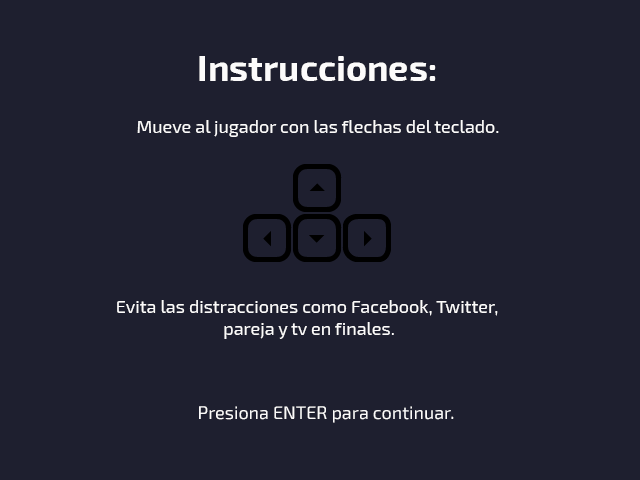
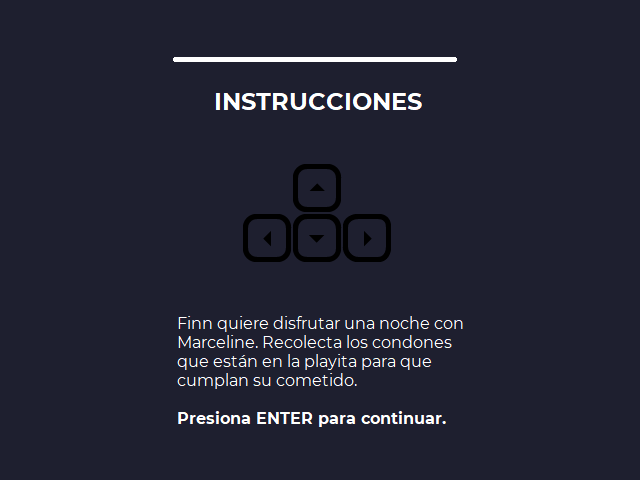
FInish?

Changed region(s): [[0.1875, 0.625, 0.7812, 0.8125], [0.2188, 0.0938, 0.7812, 0.2812], [0.2812, 0.8438, 0.7188, 0.9062]]

diff --git a/states/game.js b/states/game.js
@@ -1,9 +1,8 @@
 /* Se crea una nueva instancia de juego llamada estudianteEnFinales. */
 /* Esta es llamada en el manager */
 
-/* Se añade una variable que cuente el total de diplomas que lleva el usuario*/
-var total_diplomas = 0;
-
+/* Se añade una variable que cuente el total de condones que lleva el usuario*/
+var total_condones = 0;
 /* Se siguieron diferentes tutoriales encontrados en la pagina de Phaser */
 
 /* Esta función recibe como parametro "game" -definido en el 
@@ -20,12 +19,12 @@ var estudianteEnFinales = function (game) {
     this.pareja = null;
     this.tv = null;
 
-    /* Se crean los objetos estaticos diplomas */
-    this.diploma1  = null;
-    this.diploma2  = null;
-    this.diploma3  = null;
-    this.diploma4  = null;
-    this.diploma5  = null;
+    /* Se crean los objetos estaticos condones */
+    this.condon1  = null;
+    this.condon2  = null;
+    this.condon3  = null;
+    this.condon4  = null;
+    this.condon5  = null;
     /* */
     //this.safetile = 1;
     /* Se usara para calcular movimientos */
@@ -79,12 +78,12 @@ estudianteEnFinales.prototype = {
         this.load.image('tiles', 'images/map/default_tiles_x.png');
         /* Importa la imagen del jugador */
         this.load.image('jugador', 'images/map/car90.png');
-        /* Importa la imagen del diploma*/
-        this.load.image('diploma', 'images/map/diploma.png');
+        /* Importa la imagen del condon*/
+        this.load.image('condon', 'images/map/condon.png');
         /* Importa el logo de la UN */
         this.load.image('un', 'images/map/un.png');
         /* Importa el enemigo */
-        this.load.image('enemigo', 'images/map/fb.png');
+        this.load.image('enemigo', 'images/map/virus.png');
         /* Importa el otro enemigo */
         this.load.image('twitter', 'images/map/tw.png');
         /* Y mas...*/
@@ -127,16 +126,21 @@ estudianteEnFinales.prototype = {
         this.physics.arcade.enable(this.twitter);
         this.physics.arcade.enable(this.pareja);
         this.physics.arcade.enable(this.tv);
-        /* Se añaden los diplomas en el mapa */
+        /* Se añaden los condones en el mapa */
         /*Como cada recuadro en el mapa mide 32 e inicia desde cero, así
             se calculo para añadir a la posición: x*cantidad de casillas, y*cantidad de casillas*/
-        this.diploma1 = game.add.sprite(160,32, 'diploma');
-        this.diploma2 = game.add.sprite(384,64, 'diploma');
-        this.diploma3 = game.add.sprite(128,288, 'diploma');
-        this.diploma4 = game.add.sprite(512,288, 'diploma');
-        this.diploma5 = game.add.sprite(256,384, 'diploma');
+        this.condon1 = game.add.sprite(160,32, 'condon');
+        this.condon2 = game.add.sprite(384,64, 'condon');
+        this.condon3 = game.add.sprite(128,288, 'condon');
+        this.condon4 = game.add.sprite(512,288, 'condon');
+        this.condon5 = game.add.sprite(256,384, 'condon');
         /* El movimiento del jugador es manejado por el usuario.
         Se le indica a game que se hará a través del teclado*/
+        puntaje = game.add.text(2, 2, "Puntaje: 0" , { font: "24px Montserrat"} );
+        puntaje.addColor("#f6a5a3", 0);
+        puntaje.stroke = '#1a1c1e';
+        puntaje.fontWeight = 'bold';        
+        puntaje.strokeThickness = 4;
         this.cursors = this.input.keyboard.createCursorKeys();
         /* Inicializa el movimiento, en este caso hacia abajo*/
         this.move(Phaser.DOWN);
@@ -303,7 +307,7 @@ estudianteEnFinales.prototype = {
             this.turn();
         }
 
-        /* Y buscará los diplomas */
+        /* Y buscará los condones */
         this.colisiones();
 
         this.ganaste();
@@ -317,56 +321,62 @@ estudianteEnFinales.prototype = {
 
 
     colisiones: function () {
-        // Colisiones. Resta el valor de x y y de jugador y la diploma, si es menor a 20px destruye el objeto diploma
-        if (this.jugador.x == (this.diploma1.x + 16) && this.jugador.y == (this.diploma1.y+16)){
-            this.diploma1.destroy();
+        // Colisiones. Resta el valor de x y y de jugador y la condon, si es menor a 20px destruye el objeto condon
+        if (this.jugador.x == (this.condon1.x + 16) && this.jugador.y == (this.condon1.y+16)){
+            this.condon1.destroy();
             /* Se cambian los valores de x y y para que no entre de nuevo al if */
-            this.diploma1.y = 0;
-            this.diploma1.x = 0;
-            total_diplomas += 1;
+            this.condon1.y = 0;
+            this.condon1.x = 0;
+            total_condones += 1;
         }
 
-        if (this.jugador.x == (this.diploma2.x + 16) && this.jugador.y == (this.diploma2.y+16)){
-            this.diploma2.destroy();
+        if (this.jugador.x == (this.condon2.x + 16) && this.jugador.y == (this.condon2.y+16)){
+            this.condon2.destroy();
             /* Se cambian los valores de x y y para que no entre de nuevo al if */
-            this.diploma2.y = 0;
-            this.diploma2.x = 0;
-            total_diplomas += 1;
+            this.condon2.y = 0;
+            this.condon2.x = 0;
+            total_condones += 1;
         }
 
-        if (this.jugador.x == (this.diploma3.x + 16) && this.jugador.y == (this.diploma3.y+16)){
-            this.diploma3.destroy();
+        if (this.jugador.x == (this.condon3.x + 16) && this.jugador.y == (this.condon3.y+16)){
+            this.condon3.destroy();
             /* Se cambian los valores de x y y para que no entre de nuevo al if */
-            this.diploma3.y = 0;
-            this.diploma3.x = 0;
-            total_diplomas += 1;
+            this.condon3.y = 0;
+            this.condon3.x = 0;
+            total_condones += 1;
         }
 
-        if (this.jugador.x == (this.diploma4.x + 16) && this.jugador.y == (this.diploma4.y+16)){
-            this.diploma4.destroy();
+        if (this.jugador.x == (this.condon4.x + 16) && this.jugador.y == (this.condon4.y+16)){
+            this.condon4.destroy();
             /* Se cambian los valores de x y y para que no entre de nuevo al if */
-            this.diploma4.y = 0;
-            this.diploma4.x = 0;
-            total_diplomas += 1;    
+            this.condon4.y = 0;
+            this.condon4.x = 0;
+            total_condones += 1;    
         }
 
-        if (this.jugador.x == (this.diploma5.x + 16) && this.jugador.y == (this.diploma5.y+16)){
-            this.diploma5.destroy();
+        if (this.jugador.x == (this.condon5.x + 16) && this.jugador.y == (this.condon5.y+16)){
+            this.condon5.destroy();
             /* Se cambian los valores de x y y para que no entre de nuevo al if */
-            this.diploma5.y = 0;
-            this.diploma5.x = 0;
-            total_diplomas+= 1;    
+            this.condon5.y = 0;
+            this.condon5.x = 0;
+            total_condones+= 1;    
         }
+
+        puntaje.setText("Puntaje: " + total_condones);
+        
     },
 
     /* Cambia de estado si gana*/
     ganaste: function () {
-        /* Si el total de diplomas es 5 puede ir a la puerta y ganar */
+        /* Si el total de condones es 5 puede ir a la puerta y ganar */
         /* Como la posición de jugador se refiere al punto de giro, se suma 16 (ya que es la mitad del jugador)
          a la posición unal*/
         if(this.jugador.x == (this.unal.x+16) && this.jugador.y == (this.unal.y+16)){
-            if (total_diplomas == 5) {
+            if (total_condones == 5) {
                 game.state.start("ganar");
+            } else {
+                puntaje.setText("¡Sin todos los condones ni pio!");
+                
             }
         }
             
@@ -408,7 +418,7 @@ estudianteEnFinales.prototype = {
         //detectar cuando jugador y distraccion se cruzaban
         //this.game.debug.text("Diferencia x: " + (this.jugador.x - (this.distraccion.x+16)), 32, 32);
         //this.game.debug.text("Diferencia y: " + (this.jugador.y - (this.distraccion.y+16)), 32, 64);
-        //this.game.debug.text("Contador: " + total_diplomas, 32, 128);
+        //this.game.debug.text("Contador: " + total_condones, 32, 128);
 
     } */
 

diff --git a/index.html b/index.html
@@ -58,7 +58,7 @@
 	               <li><a href="#intro">Introducción</a></li>
                    <li><a href="#about">Twitter</a></li>
 	               <li><a href="#services">¡Juega!</a></li>
-	               <li><a href="#journal">...</a></li>
+	               <!-- <li><a href="#journal">...</a></li> -->
                </ul>
 
             </nav>
@@ -98,11 +98,23 @@
 				   <div class="row">
 					   <div class="col full">
 						   <div class="slider-text">
-							   <h2>Sólo una prueba de sangre puede darte certeza sobre el VIH. <span>Hazte la prueba.</span></h2>
+                               <h2><span>Los síntomas pueden tardar meses o años en aparecer. </span>
+                                Sólo una prueba de sangre puede darte certeza sobre el VIH. <span>Hazte la prueba.</span></h2>
 						   </div>
 					   </div>
 				   </div>
-			   </li>
+               </li>
+               
+            <!-- Slide -->
+			   <li>
+                <div class="row">
+                    <div class="col full">
+                        <div class="slider-text">
+                            <h2><span>No solo se contagian las personas promiscuas.</span> Con una sóla relación ocasional sin protección podrías contagiarte.</h2>
+                        </div>
+                    </div>
+                </div>
+            </li>
 
 		   </ul>
 	   </div>
@@ -118,7 +130,8 @@
     
              <div class="col one-fourth">
                 <h2>Twitter</h2>
-                <p class="desc">Este es el Hashtag oficial para esta campaña, en marco de la electiva <i>El sida como realidad del proceso vital humano</i>.</p>
+                <p class="desc">Este es el Hashtag oficial para esta campaña, en marco de la electiva <i>
+                    El sida como realidad del proceso vital humano</i>.</p>
              </div>
     
              <div class="col three-fourths">
@@ -138,7 +151,18 @@
 
          <div class="col one-third">
             <h2>¡Juega!</h2>
-            <p class="desc">Recolecta los condones, responde las preguntas y gana.</p>
+            <p class="desc">Recolecta los condones que están en la 'playita' y gana.</p>
+            <h3>Integrantes:</h3>
+            <ul>
+                <li>Ingrid Carolina Bernal Riveros</li>
+                <li>Natalia Brugés Arenas</li>
+                <li>Carlos Alfonso Gómez Hernández</li>
+                <li>Jennifer Andrea Malaver Toloza</li>
+                <li>Veronica Mazorra Peñuela</li>
+                <li>Juan Pablo Ramirez Gonzalez</li>
+                <li>Deivid Andres Rodriguez Carranza</li>
+                <li>Maria Daniela Silva Romero</li>
+            </ul>
          </div>
 
          <div class="col two-thirds">
@@ -160,7 +184,7 @@
 
    <!-- Call-to-Action Section
    ================================================== -->
-   <section id="journal">
+   <!-- <section id="journal">
 
     <div class="row section-head">
         <div class="col full">
@@ -173,7 +197,8 @@
       </div>
 
 
-   </section> <!-- Call-to-Action Section End-->
+   </section> -->
+    <!-- Call-to-Action Section End-->
 
    <!-- footer
    ================================================== -->

diff --git a/css/layout.css b/css/layout.css
@@ -279,7 +279,7 @@ ul#nav li.active a { color: #f6a5a3; }
 #services a, #services a:visited  { color: #C4C4C4; }
 #services a:hover, #services a:focus { color: #f6a5a3; }
 
-#services .section-head h2 { color: #f6a5a3; }
+#services .section-head h2, h3, h5 { color: #f6a5a3; }
 #services .section-head p.desc,
 #services .section-head .intro { color: #57606B; }
 

diff --git a/css/base.css b/css/base.css
@@ -136,7 +136,7 @@ table {
 }
 
 body {
-   background: #151719 url(../images/bg.png);
+   background: #151719; /*url(../images/bg.png);*/
 	font: 15px/30px opensans-regular, sans-serif;
 	color: #838C95;
    -webkit-font-smoothing: antialiased; /* Fix for webkit rendering */

diff --git a/states/loser.js b/states/loser.js
@@ -15,7 +15,7 @@ var perdiste = {
         enter.onDown.addOnce(this.start, this);
 
         /* Resetea la cantidad de diplomas en cada juego */
-        total_diplomas = 0;
+        total_condones = 0;
     },
     
     // reinicia el juego   

diff --git a/states/victory.js b/states/victory.js
@@ -15,7 +15,7 @@ var ganaste = {
         enter.onDown.addOnce(this.start, this);
 
         /* Resetea la cantidad de diplomas en cada juego */
-        total_diplomas = 0;
+        total_condones = 0;
     },
     
     // reinicia el juego   
